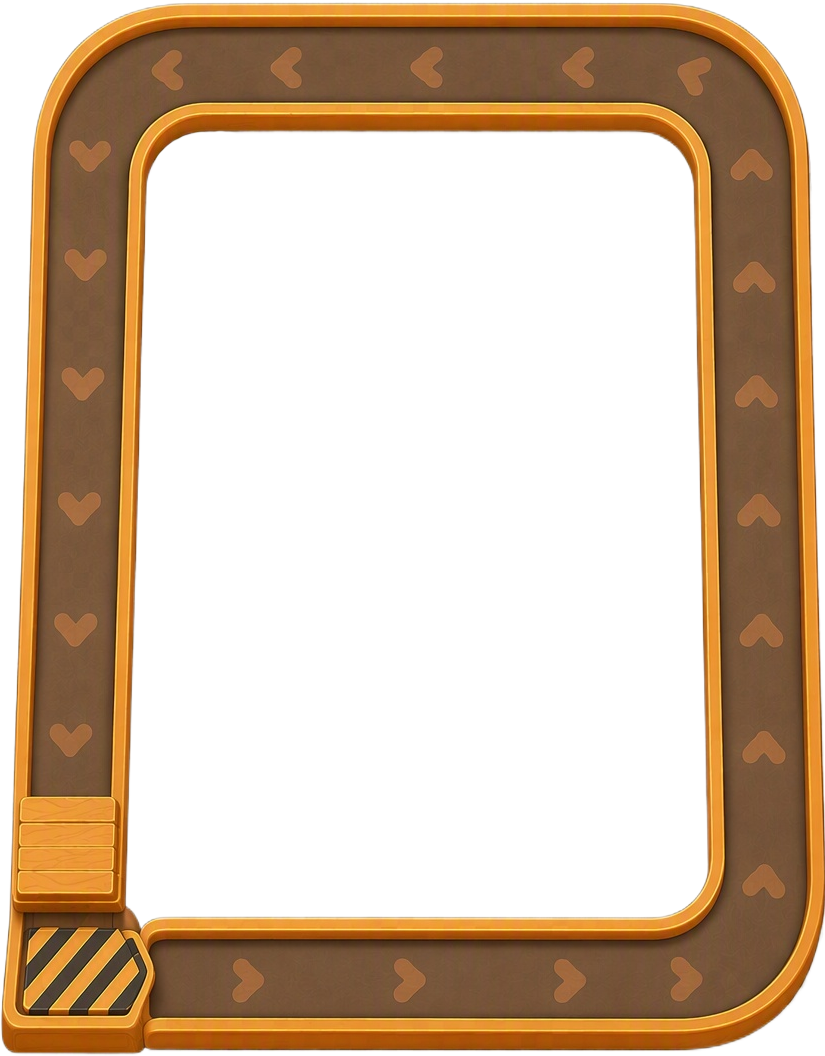
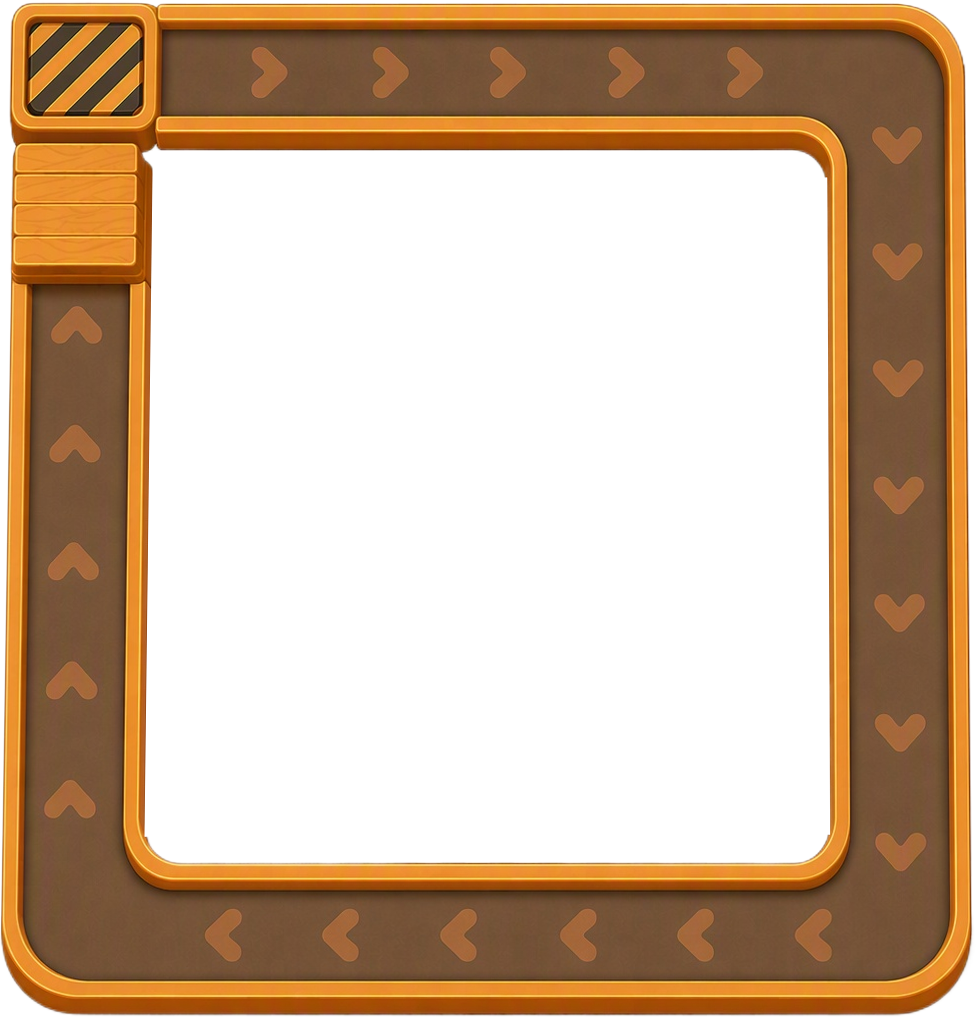
修改为正方形

Changed region(s): [[0.0, 0.0, 1.0, 1.0]]

diff --git a/godot/README.md b/godot/README.md
@@ -18,7 +18,7 @@
 
 美术替换入口在主场景 Inspector 的 `Art Slots` 分类。可以替换背景、顶部 HUD、订单气泡、棋盘、传送带、五格待编制区、纺织机左/底/右方向资源、5 种毛线球和 5 种已纺织块；没有填入的插槽会继续使用脚本绘制的占位样式。具体顺序见 `assets/README.md`。
 
-布局替换入口在同一个节点 Inspector 的 `Layout - 390x844` 分类。`board_layout_rect` 是绣图区，`belt_panel_rect` 是传送带区域，`recycle_tray_rect` 是中央五格待编制区，4 个 `material_lane_*_rect` 是四条材料列；`belt_path_points` 控制动态纺织机行进轨迹，`dynamic_machine_size` 控制机器大小，`machine_counter_offset` 控制起点计数位置，`machine_counter_size` 控制计数底图尺寸，`order_bubble_offset` 控制整组订单气泡相对传送带起点的位置。顶部 HUD 和底部材料区也可以独立调整。建议保持虚拟画布 390x844 的坐标范围，运行时会自动等比缩放到窗口。
+布局替换入口在同一个节点 Inspector 的 `Layout - 390x844` 分类。`board_layout_rect` 是绣图区，`belt_panel_rect` 是传送带区域，`recycle_tray_rect` 是中央五格待编制区，4 个 `material_lane_*_rect` 是四条材料列；`belt_path_points` 控制动态纺织机行进轨迹，`dynamic_machine_size` 控制机器大小，`machine_counter_offset` 控制起点计数位置，`machine_counter_size` 控制计数底图尺寸，`order_bubble_offset` 控制整组订单气泡相对传送带起点的位置。顶部 HUD 和底部材料区也可以独立调整。当前传送带资源按左上角起点、顶部向右、右侧向下、底部向左、左侧向上至起点下方终点的箭头路线配置；新传送带图片位于 `assets/conveyor.png`。建议保持虚拟画布 390x844 的坐标范围，运行时会自动等比缩放到窗口。
 
 关卡图形编辑入口在 `Main` 节点 Inspector 的 `Level Editing` 分类。`pattern_grid_size.x` 是列数，`pattern_grid_size.y` 是行数；`pattern_layout` 是多行字符网格。使用 `.` 留空，使用 `c/y/g/l`（或 `b`）/`d` 分别放置珊瑚红、向日黄、叶绿色、湖蓝色/深蓝色块。空格也代表留空并保留列位置。行数不足会补空行，超出尺寸会截断，非法字符会按空格处理。
 
